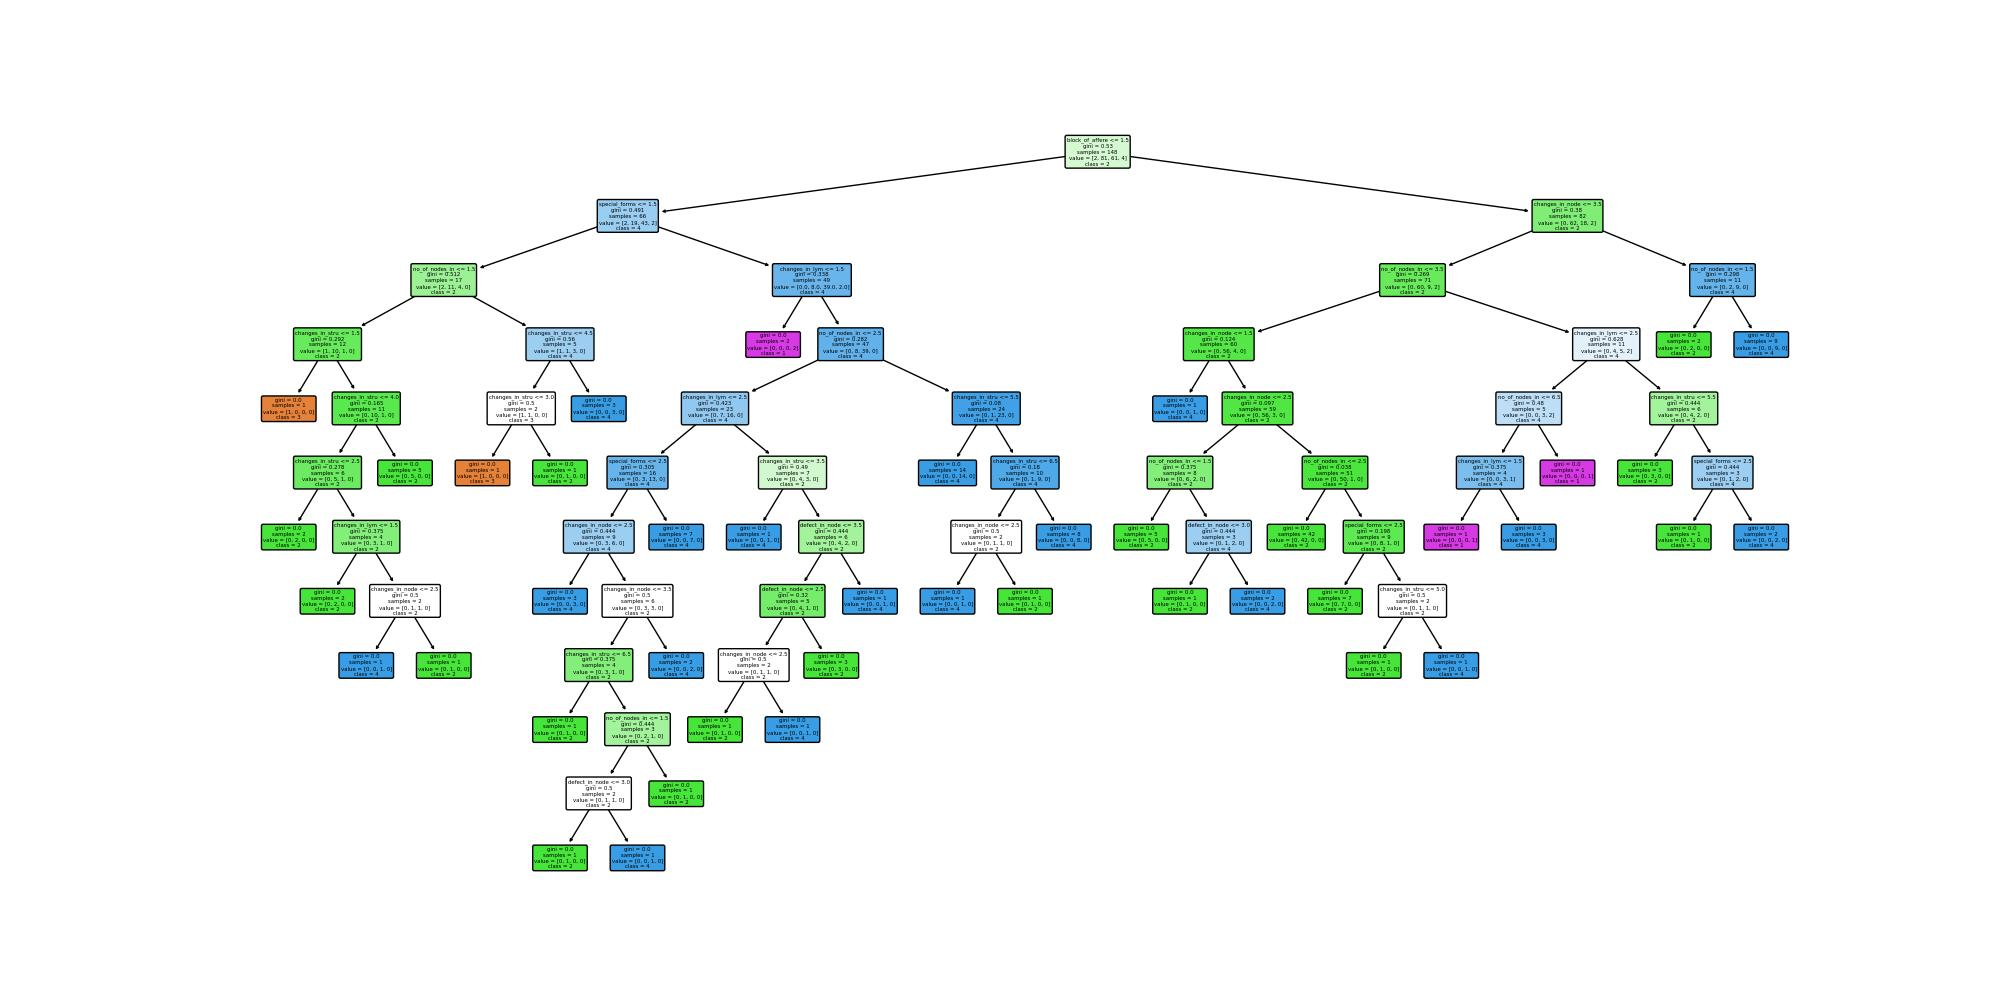
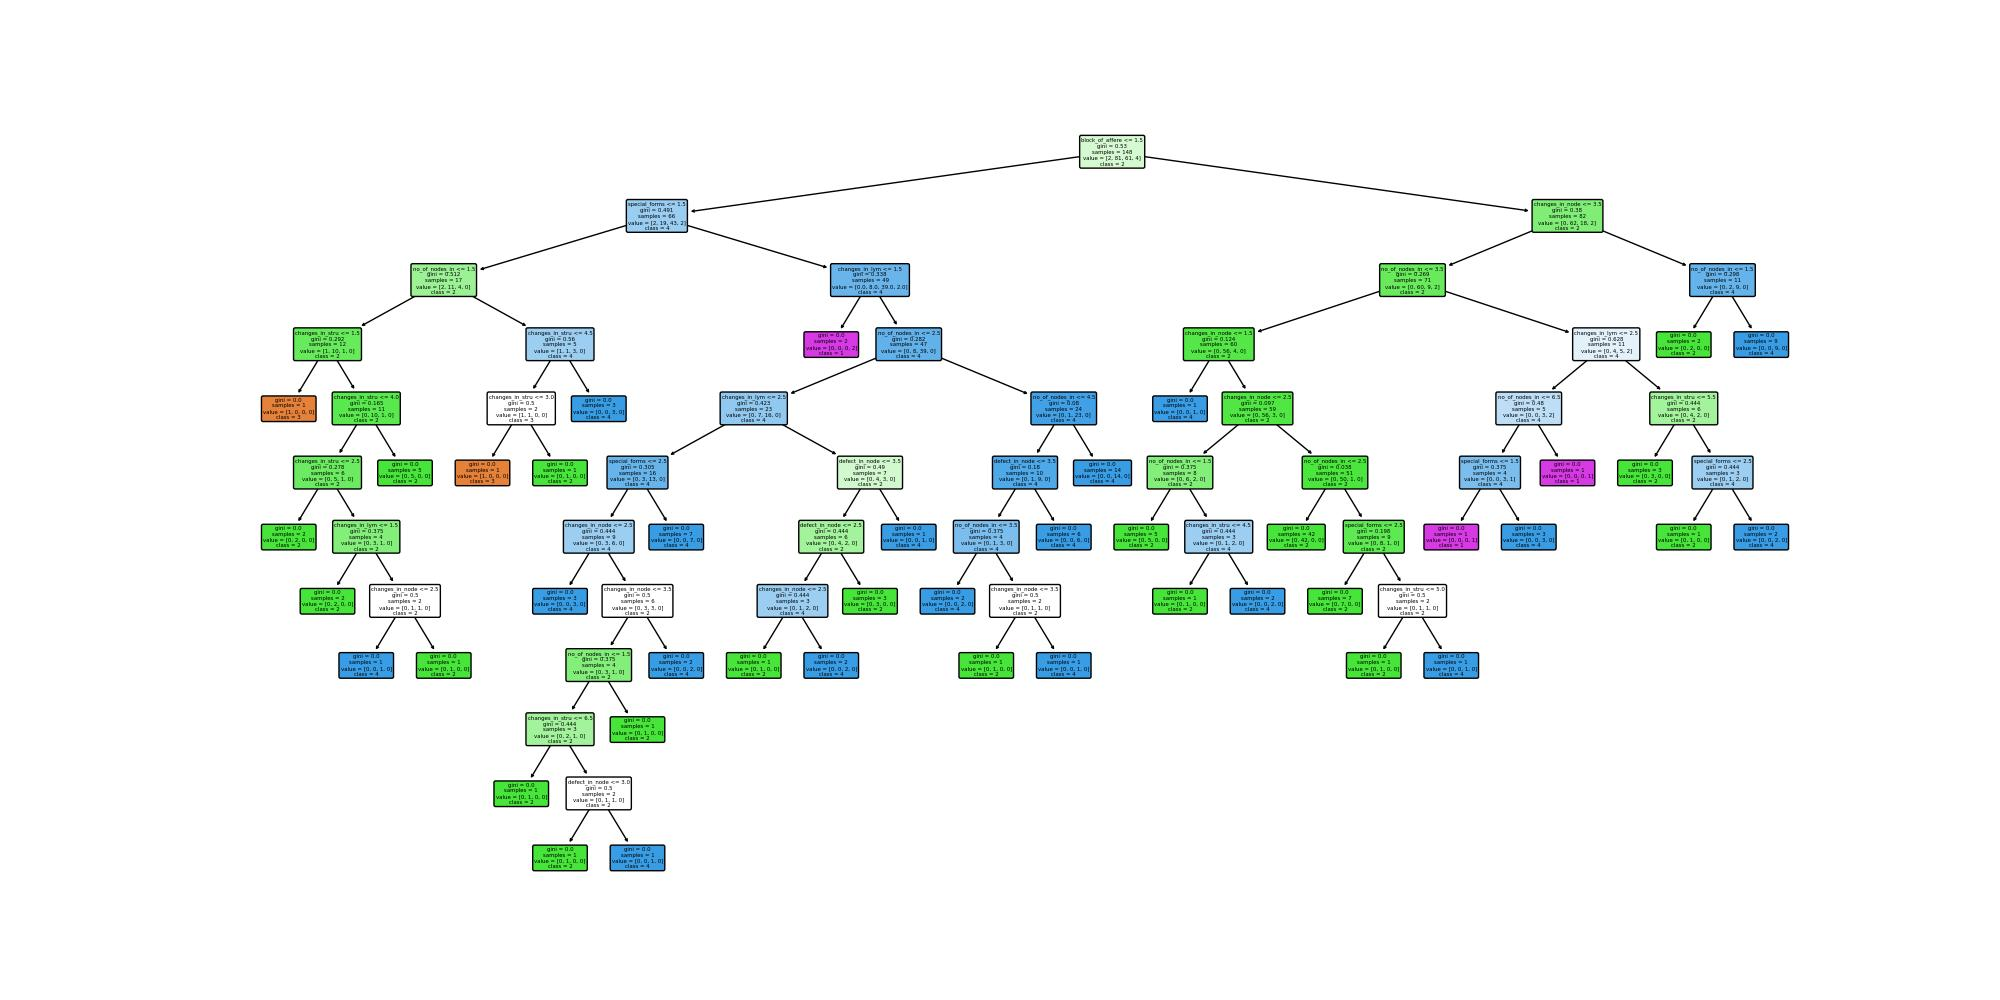
fixed bugs with inconsistency in columns

diff --git a/3dec_tree_txt_to_csv.py b/3dec_tree_txt_to_csv.py
@@ -1,42 +1,55 @@
 import csv
+import re
 
-# Funkcja do wczytywania reguł decyzyjnych z pliku tekstowego
-def read_decision_rules(filename):
-    with open(filename, 'r') as file:
-        return [line.strip() for line in file]
+# Funkcja do parsowania wierszy z pliku tekstowego
+def parse_line(line, attributes):
+    parts = line.strip().split(", class: ")
+    class_label = parts[1]
+    conditions = parts[0].split(") & (")
+    conditions[0] = conditions[0][1:]  # Usunięcie początkowego nawiasu '('
+    conditions[-1] = conditions[-1][:-1]  # Usunięcie końcowego nawiasu ')'
+    
+    condition_dict = {attr: "" for attr in attributes}
+    condition_dict["class"] = class_label
+    for condition in conditions:
+        for key in condition_dict.keys():
+            if key in condition:
+                condition_dict[key] = condition.strip()
+                break
+    
+    return condition_dict
 
-# Funkcja do określenia maksymalnej liczby warunków w regułach
-def max_conditions_length(rules):
-    max_length = 0
-    for rule in rules:
-        conditions, _ = rule.split(', class: ')
-        conditions = conditions.split('&')
-        length = len(conditions)
-        if length > max_length:
-            max_length = length
-    return max_length
+# Wczytanie pliku tekstowego i przetworzenie jego zawartości
+input_file = "subtable_1/3decision_rules_1.txt"
+output_file = "output.csv"
 
-# Wczytaj reguły decyzyjne z pliku tekstowego i określ maksymalną liczbę warunków
-max_rule_length = 0
-for x in range(1, 6):
-    decision_rules = read_decision_rules(f'subtable_{x}/3decision_rules_{x}.txt')
-    max_rule_length = max(max_rule_length, max_conditions_length(decision_rules))
+with open(input_file, "r") as file:
+    lines = file.readlines()
 
-# Utwórz listę nazw kolumn, uwzględniając maksymalną liczbę warunków
-column_names = [f"condition_{i}" for i in range(1, max_rule_length + 1)] + ["class_label"]
+# Ekstrakcja wszystkich unikalnych atrybutów
+attribute_set = set()
+for line in lines:
+    parts = line.strip().split(", class: ")[0]
+    conditions = parts.split(") & (")
+    conditions[0] = conditions[0][1:]  # Usunięcie początkowego nawiasu '('
+    conditions[-1] = conditions[-1][:-1]  # Usunięcie końcowego nawiasu ')'
+    
+    for condition in conditions:
+        attr_name = condition.split(" ")[0]
+        attribute_set.add(attr_name)
 
-# Wczytaj reguły decyzyjne z pliku tekstowego
-for x in range(1, 6):
-    decision_rules = read_decision_rules(f'subtable_{x}/3decision_rules_{x}.txt')
+attributes = list(attribute_set)
+attributes.sort()  # Sortowanie atrybutów dla uporządkowanego CSV
+attributes.append("class")
 
-    with open(f'subtable_{x}/3decision_rules{x}.csv', 'w', newline='') as csvfile:
-        writer = csv.writer(csvfile)
-        writer.writerow(column_names)
-        for rule in decision_rules:
-            conditions, class_label = rule.split(', class: ')
-            conditions = conditions.split('&')
-            conditions = [c.strip().replace('(', '').replace(')', '') for c in conditions]
-            conditions.extend([''] * (max_rule_length - len(conditions)))  # Uzupełnij puste kolumny
-            row = conditions + [class_label]
-            writer.writerow(row)
-        print(f"Reguły decyzyjne zostały zapisane do pliku decision_rules{x}.csv!")
+parsed_lines = [parse_line(line, attributes) for line in lines]
+
+# Zapisanie wyników do pliku CSV
+with open(output_file, "w", newline='') as csvfile:
+    writer = csv.DictWriter(csvfile, fieldnames=attributes)
+    
+    writer.writeheader()
+    for parsed_line in parsed_lines:
+        writer.writerow(parsed_line)
+
+print(f"Plik CSV został wygenerowany: {output_file}")

diff --git a/3decision_tree_rules_to_csv.py b/3decision_tree_rules_to_csv.py
@@ -37,7 +37,7 @@ def process_csv_file(csv_file, index, output_folder):
     df = pd.read_csv(csv_file)
     X = df.drop(columns=['class'])
     y = df['class']
-    clf = DecisionTreeClassifier(criterion='gini',max_depth=None, random_state=0)
+    clf = DecisionTreeClassifier(criterion='gini',max_depth=None, random_state=1234)
     clf.fit(X, y)
     depth = clf.tree_.max_depth
     print(f"Głębokość drzewa {index}: {depth}")
